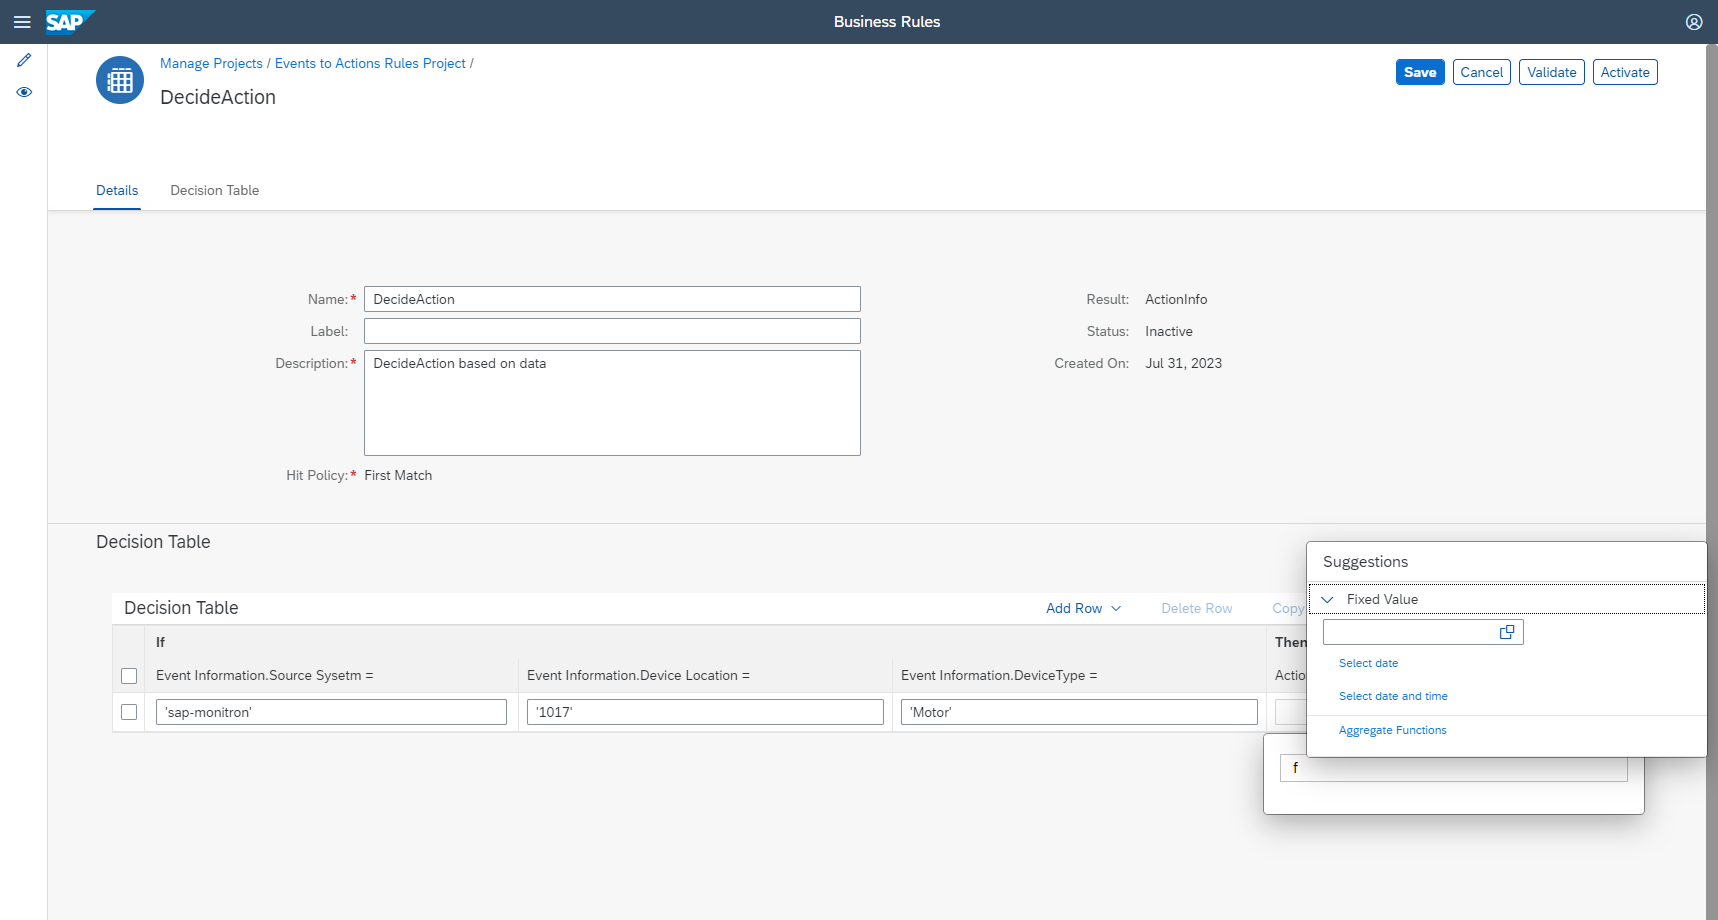
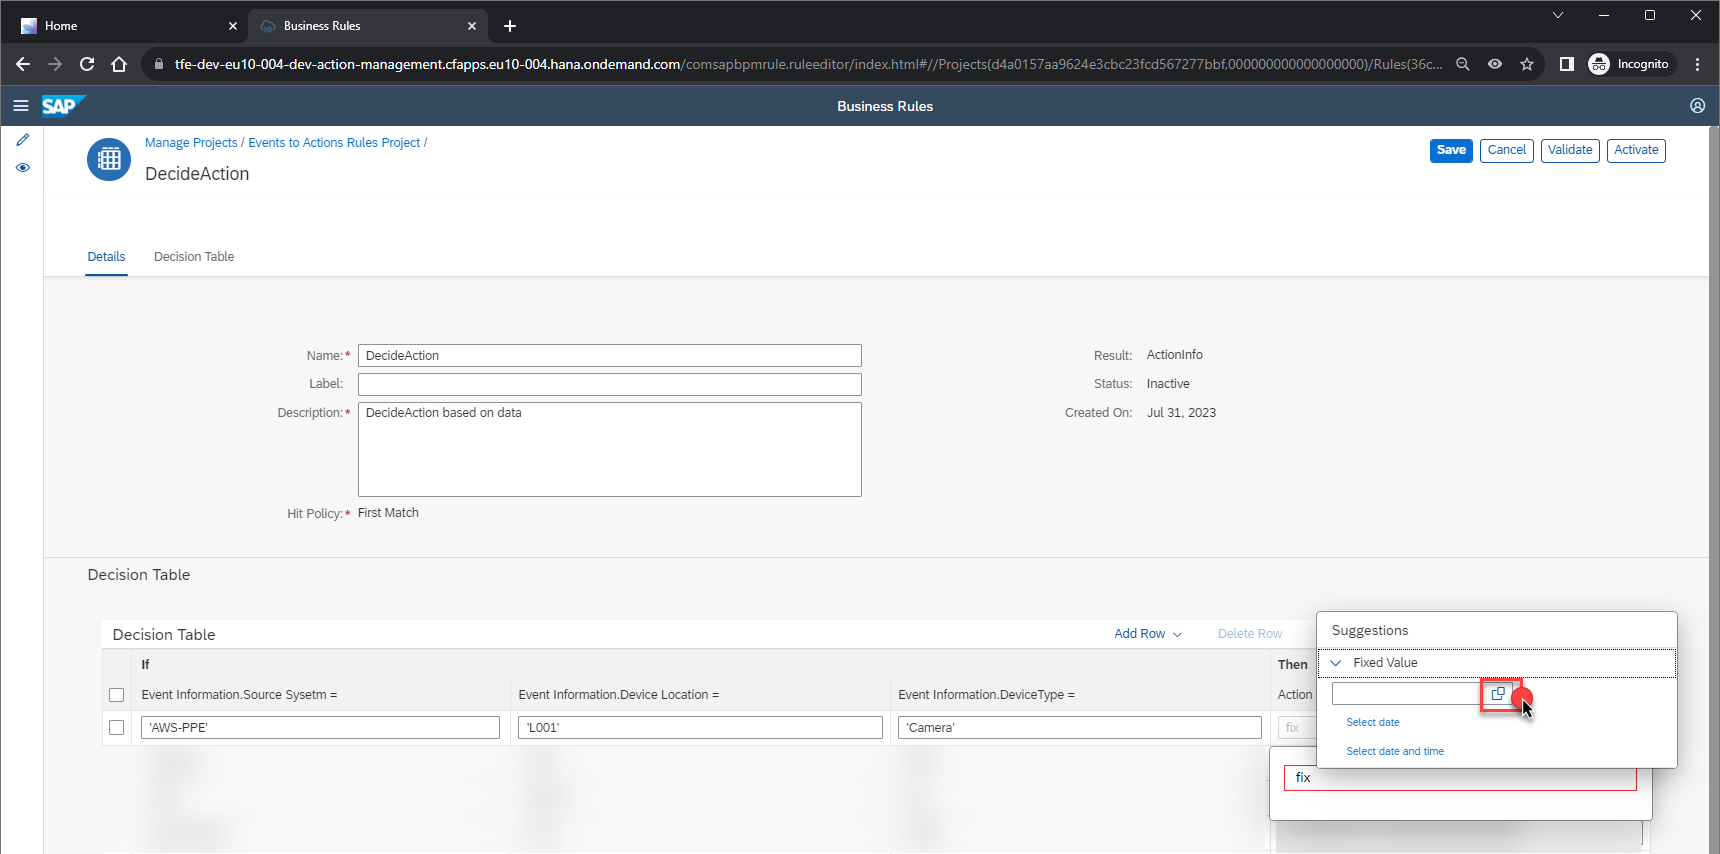
Documented Steps to configure Business Rules

diff --git a/Documentation/Step8-Configure-BusinessRules-Part2/README.md b/Documentation/Step8-Configure-BusinessRules-Part2/README.md
@@ -33,13 +33,17 @@ In this section, you will update decision table and activate business rule proje
 
     ![plot](./images/ActivateRules.png)
 
-8. In the **Decision Table** section, go to **Action Id** column and select **Fixed Value** node.
+8. In the **Decision Table** section, go to **Action Id** column, type **fixed** in the field and select **Fixed Value** node. Click on the field as shown in the screenshot below.
 
     ![plot](./images/ActionIdInput.png)
 
-9. Select **Create PM Notification** entry in the value help pop up.
+9. Select **Create EHS Incident** entry in the value help pop up.
 
     ![plot](./images/ActionIdValueHelp.png)
+
+    Click on **save**. Again select the **DecideAction** and Choose **Edit** then Choose **Activate**
+
+    ![plot](./images/SaveDecideActionRule.png)
 
 10. Choose **Activate**.
 
@@ -59,43 +63,3 @@ In this section, you will update decision table and activate business rule proje
 
 
     You will see a message **Your rule service is deployed successfully.** 
-
-14. Select **MonitronActionConfigurations** Project project and choose **Edit** and **Activate**.
-
-    ![plot](./images/ActivateMonitronProject.png)
-
-15. Choose **Data Objects** tab. Select **EquipmentDetails** and then choose **Edit**.
-
-    ![plot](./images/MonitronDataObjects.png)
-
-    Choose **Activate**.
-
-    ![plot](./images/ActivateEquipmentDetailsDataObject.png)
-
-16. Repeat above step for **BucketInfo** data object, click on **Edit** and then Choose **Activate**
-
-    ![plot](./images/BucketInfoDataObj.png)
-
-17. Choose **Rule Services** tab and select **GetEquipmentDetails** and then choose **Edit** and **Activate**..
-
-    ![plot](./images/ActivateMonitronRuleServices.png)
-
-18. Choose **Rules** tab and select **FetchEquipmentDetails** and then choose **Edit** and **Activate**.
-
-    ![plot](./images/ActivateMonitronRules.png)
-
-
-19. Choose **Rulesets** tab and select **EquipmentDetailsRule** and then choose **Edit** and **Activate**.
-
-    ![plot](./images/ActivateMonitronRuleSet.png)
-
-20. Choose **Rule Services** tab and choose **Deploy**.
-
-    ![plot](./images/DeployMonitronRuleServices.png)
-
-21. Choose **Cloud Runtime** from the **Select a system to Deploy** list.
-
-    ![plot](./images/MonitronSelectSystem.png)
-
-
-    You will see a message **Your rule service is deployed successfully.**
